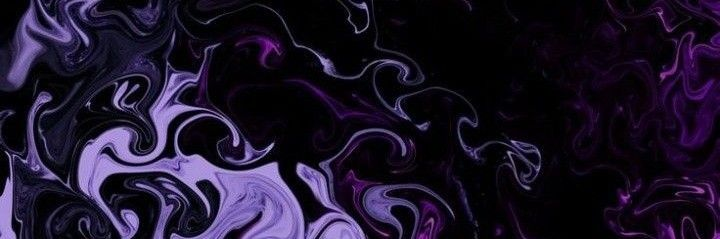
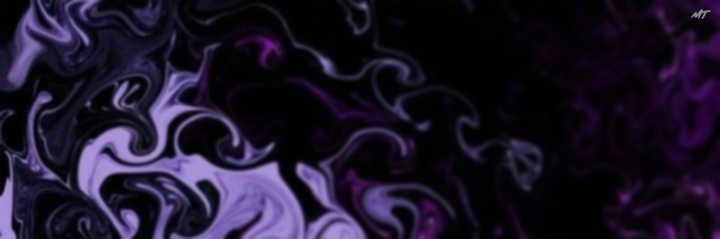
Rank card improved

diff --git a/util/leveling_utils.py b/util/leveling_utils.py
@@ -1062,10 +1062,10 @@ class LevelingSystem:
             
             # Load fonts
             try:
-                title_font = ImageFont.truetype("arial.ttf", 46)
-                label_font = ImageFont.truetype("arialbd.ttf", 22)  # Bold format
-                num_font = ImageFont.truetype("arialbd.ttf", 36)
-                info_font = ImageFont.truetype("arial.ttf", 18)
+                title_font = ImageFont.truetype("arialbd.ttf", 56)
+                label_font = ImageFont.truetype("arialbd.ttf", 26)  # Bold format
+                num_font = ImageFont.truetype("arialbd.ttf", 46)
+                info_font = ImageFont.truetype("arial.ttf", 22)
             except Exception:
                 title_font = ImageFont.load_default()
                 label_font = ImageFont.load_default()
@@ -1109,7 +1109,10 @@ class LevelingSystem:
                 img.paste(avatar_img, (avatar_x, avatar_y), avatar_img)
                 
             # Top text: Username
-            draw.text((280, 25), member.display_name, fill=(255, 255, 255), font=title_font)
+            d_name = member.display_name
+            if len(d_name) > 16:
+                d_name = d_name[:14] + "..."
+            draw.text((280, 20), d_name, fill=(255, 255, 255), font=title_font)
             
             # Helper to draw progress bars
             def draw_stat_row(draw_obj, base_y, level, is_text, rank, total, curr, req):
